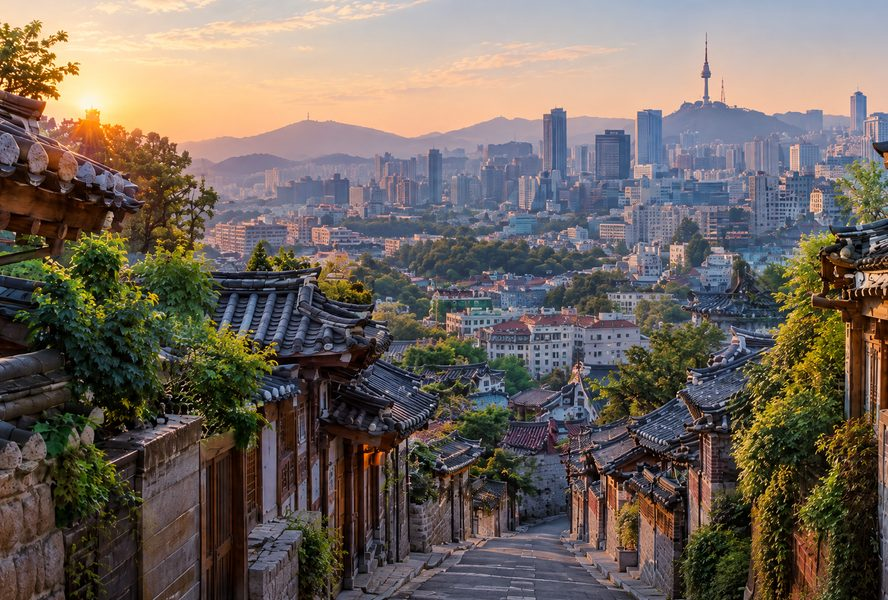
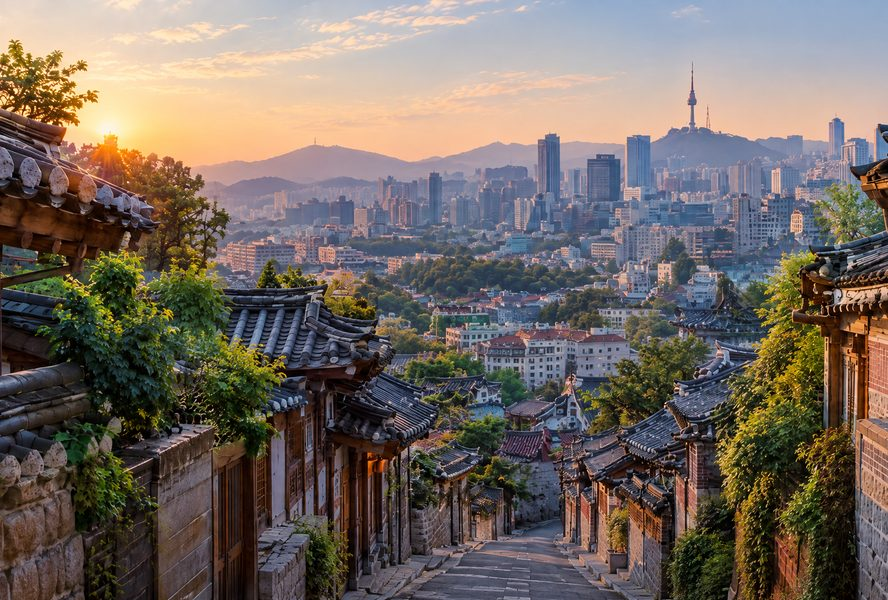
서울 엽서: 북촌 사진을 원본 높이 그대로 (써니가 고른 장면)
148×100 후보 중 써니가 '전체 높이'를 골랐다 — 하늘부터 골목 바닥까지 다 보이는 판.

Claude-Session: https://claude.ai/code/session_01CK9SJJKhQ5fY79STu7o9vx

diff --git a/app/mohallae/plan/flow.ts b/app/mohallae/plan/flow.ts
@@ -38,7 +38,7 @@ export const CURATED: Record<string, Curated> = {
   Seoul: {
     tagline: tx("오래된 골목과 새로운 취향 사이", "Between old alleys and new tastes"),
     // 엽서는 전부 148×100(가로 엽서) 비율로 원본(.impeccable/plates)에서 잘라 둔 것. 서울은 노을 사진 대신 북촌 골목 —
-    // 노을 사진은 하늘이 절반이라 (써니: "하늘만 보이는 느낌"), 북촌은 위 하늘을 조금 덜어 골목 바닥이 보이게 (써니: "땅 부분이 더 보였으면")
+    // 노을 사진은 하늘이 절반이라 (써니: "하늘만 보이는 느낌"). 북촌은 원본 높이 그대로 — 하늘부터 골목 바닥까지 (써니가 고름)
     postcard: "/mohallae/postcard-seoul-bukchon.jpg",
     experiences: [
       { id: "heritage", title: tx("궁궐과 한옥", "Palaces & hanok"), description: tx("시간이 천천히 흐르는 서울", "Where time slows down"), image: "/landing/gyeongbokgung.webp",
